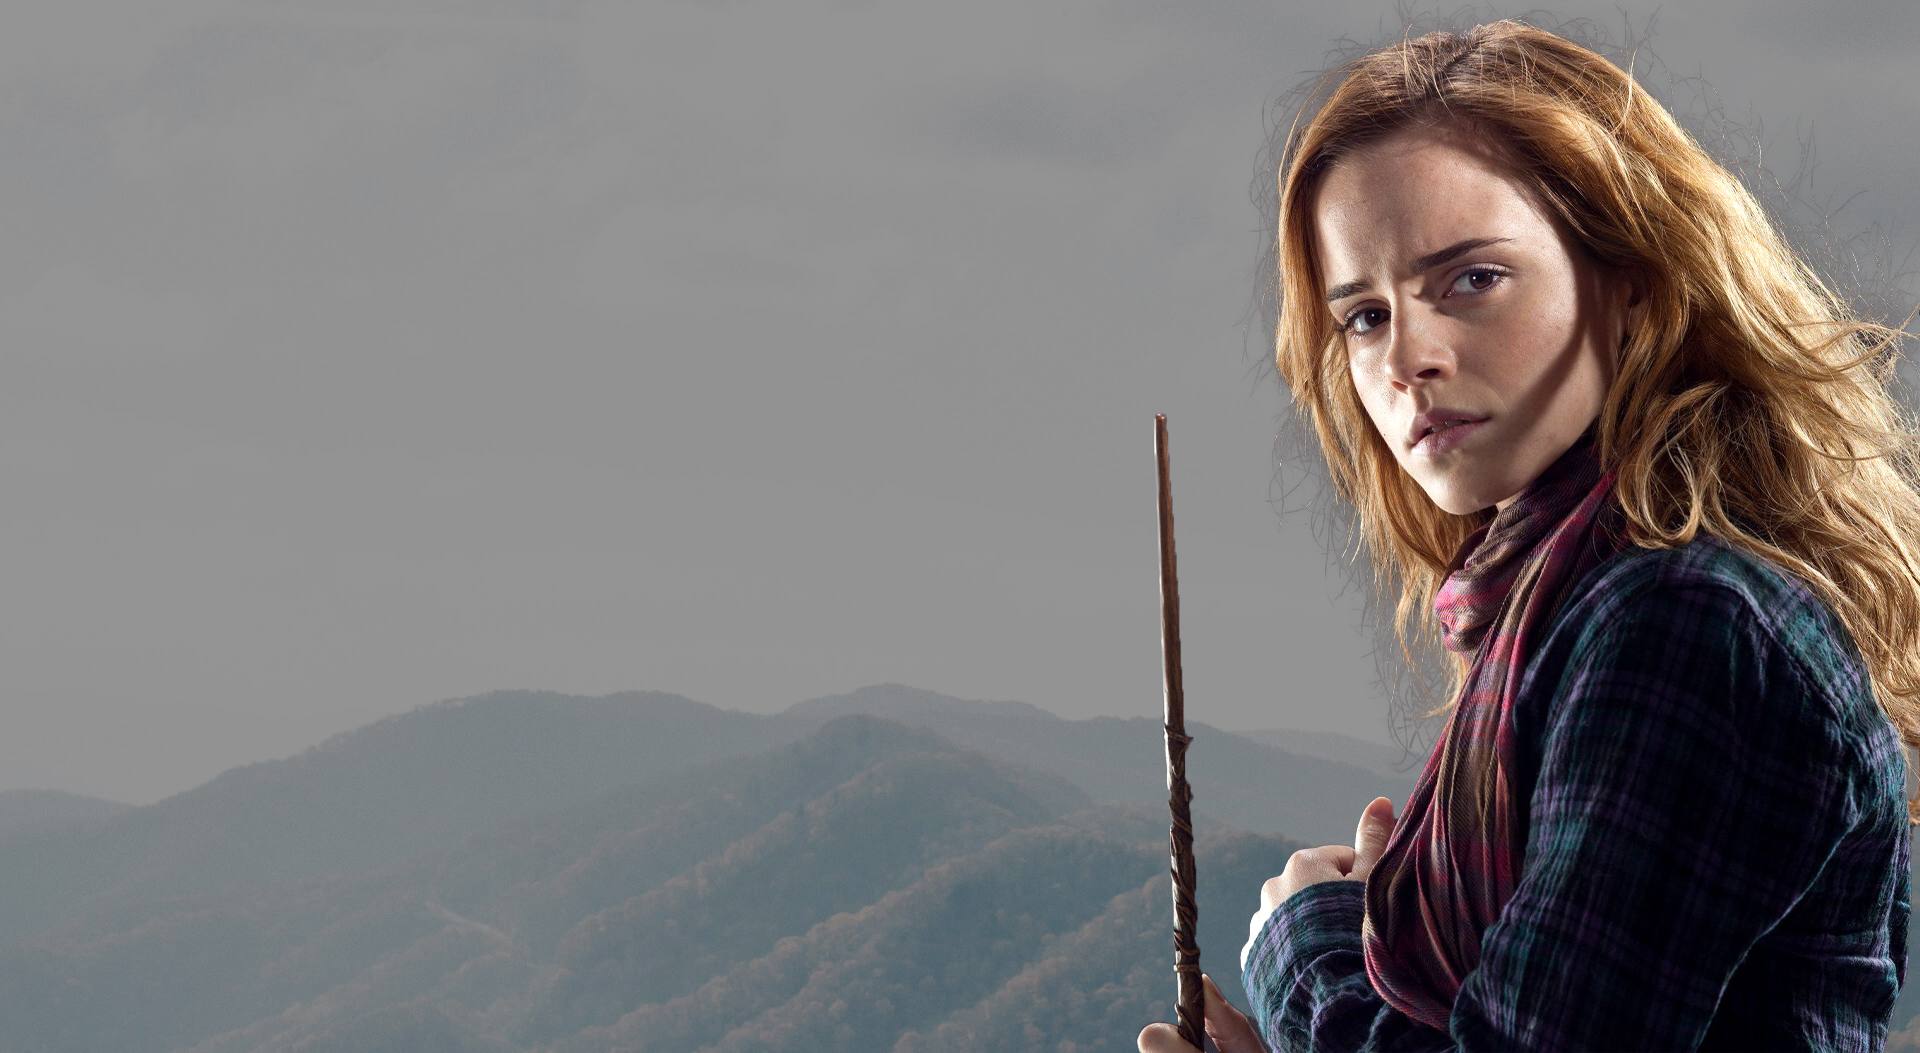
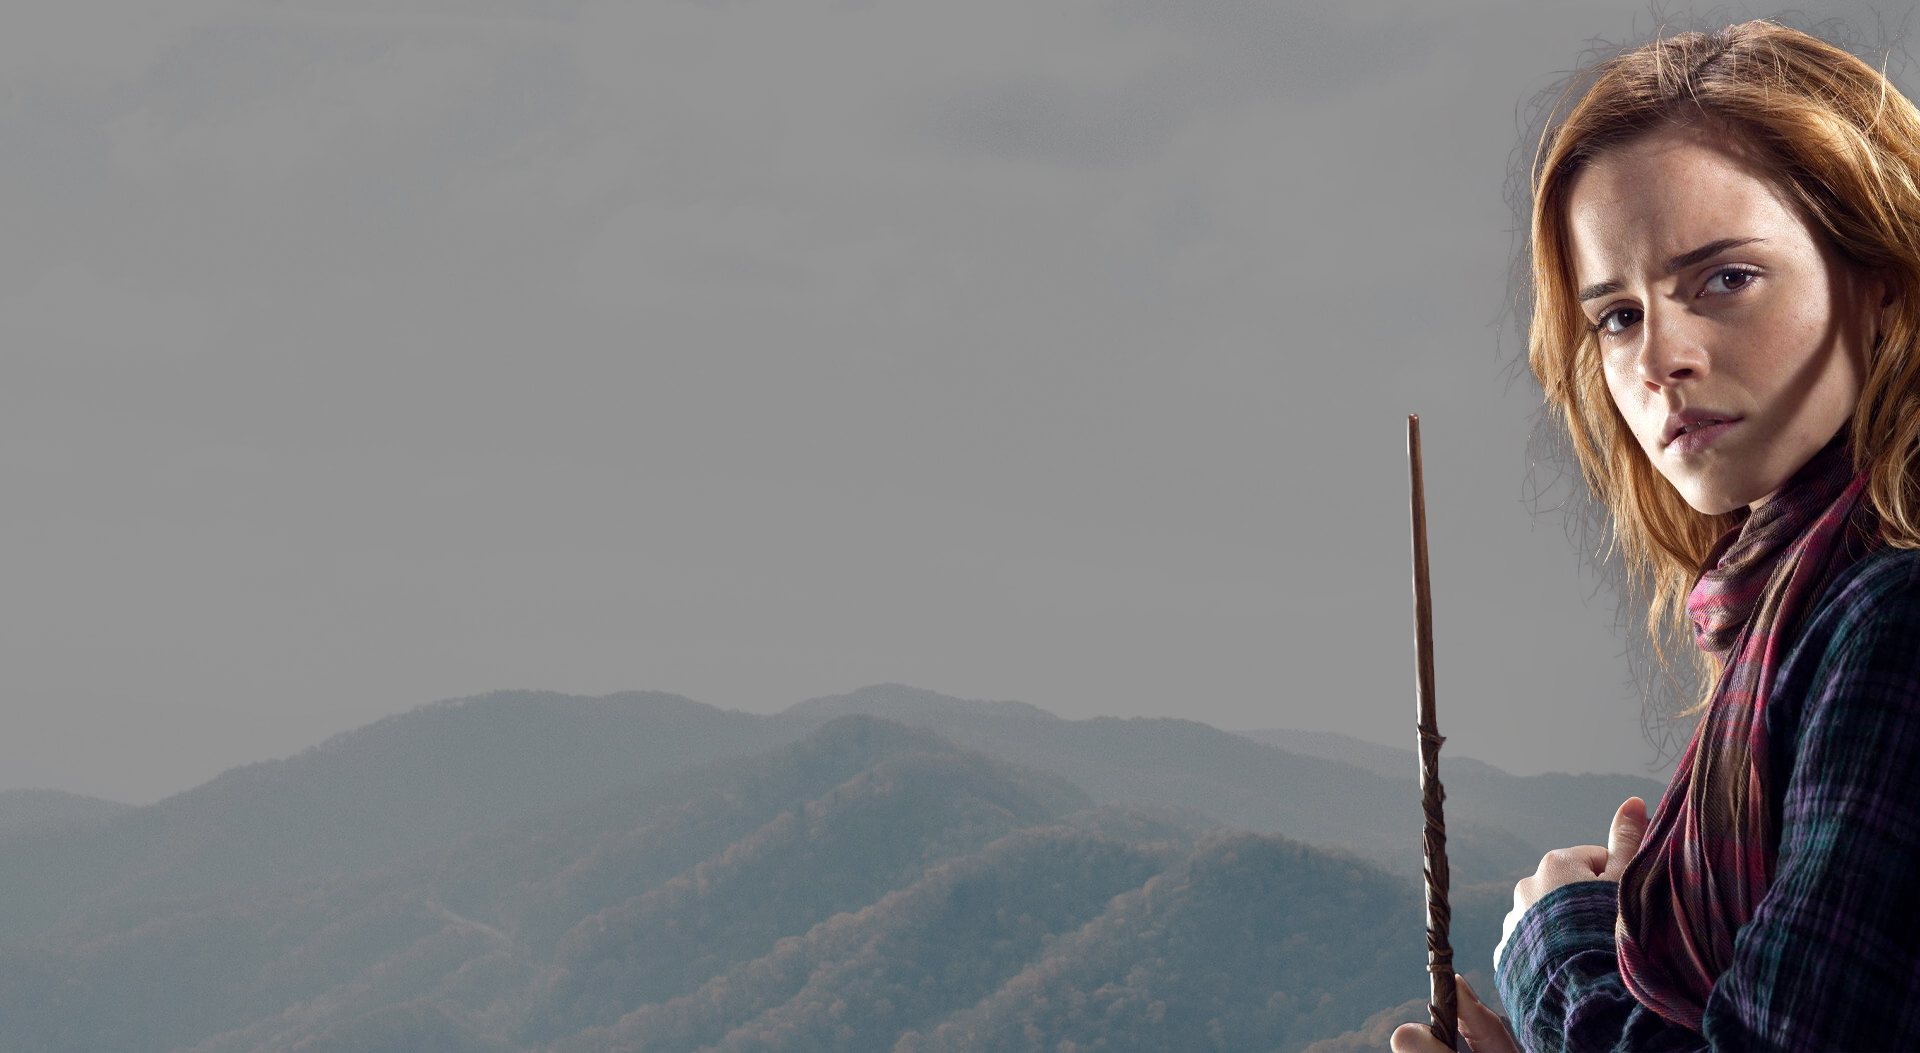
header image updated

Changed region(s): [[0.5938, 0.0, 1.0, 1.0]]

diff --git a/assets/css/style.css b/assets/css/style.css
@@ -245,7 +245,7 @@ h1, h2, h3, h4, h5, h6 {
 # Hero Section
 --------------------------------------------------------------*/
 #hero {
-  width: 115%;
+  width: 100%;
   height: 100vh;
   background: url("../img/header\ pic\ .jpg") top right no-repeat;
   background-size: cover;
@@ -452,6 +452,12 @@ MINISTER FOR MAGIC
   font-family: "Raleway", sans-serif;
   font-size: 14px;
 }
+
+/*--------------------------------------------------------------
+# Sample Section
+--------------------------------------------------------------*/
+
+
 
 /*--------------------------------------------------------------
 # Akills
